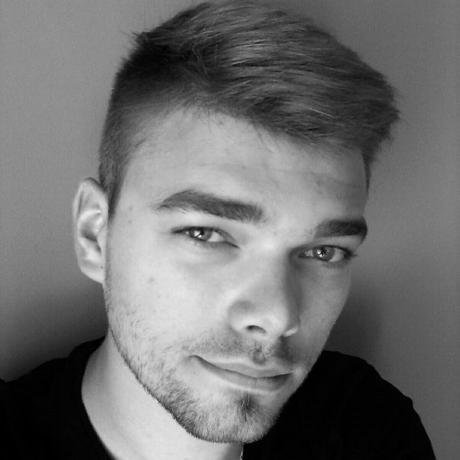
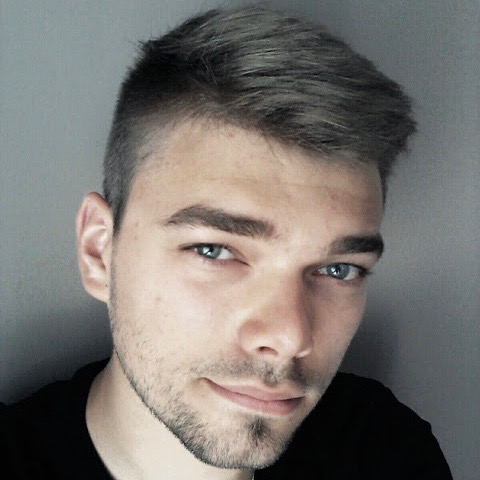
Changed pictures from grayscale to color and update css transition for pictures

diff --git a/css/style.css b/css/style.css
@@ -249,6 +249,7 @@ h1{
 .sealious-advantage-image img{
     padding:1rem;
     margin:0 auto;
+    overflow:hidden;
 }
 .sealious-advantage-definition{
     max-width:30rem;
@@ -363,8 +364,11 @@ h1{
     width:10rem;
     height:10rem;
     border-radius:10rem;
-        transition: all 0.3s;
+    transition: all 0.3s;
     -webkit-transition: all 0.3s;
+    
+    -webkit-filter: grayscale(100%);
+    filter: grayscale(100%);
 }
 
 .sealious-team-member h2{
@@ -384,6 +388,8 @@ h1{
 } 
 #sealious-team a:hover .sealious-team-member img{
     box-shadow: 0rem 0rem 2rem #14171f;
+    -webkit-filter: grayscale(0%);
+    filter: grayscale(0%);
 }
 .sealious-team-member p{
     font-size:0.9rem;
